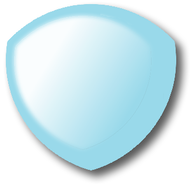
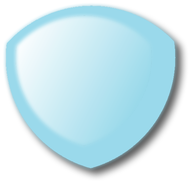
lots of changes
redid logos with transparent background, added logos for services, fixed
the error message in the contact form. many many more changes coming.

diff --git a/index.html b/index.html
@@ -64,7 +64,7 @@
                     <span class="icon-bar"></span>
                     <span class="icon-bar"></span>
                 </button>
-                 <a class="navbar-brand page-scroll" href="#page-top">v 0.5</a>
+                 <!-- <a class="navbar-brand page-scroll" href="#page-top">v 0.5.1</a> -->
             </div>
 
             <!-- Collect the nav links, forms, and other content for toggling -->
@@ -73,14 +73,18 @@
                     <li class="hidden">
                         <a href="#page-top"></a>
                     </li>
-                    <li>
-                        <a class="page-scroll" href="#services">Services</a>
-                    </li>
 <!--                     <li>
                         <a class="page-scroll" href="#portfolio">Portfolio</a>
                     </li> -->
                     <li>
+                        <a class="page-scroll" href="#page-top">Back To Top</a>
+                    </li>
+
+                    <li>
                         <a class="page-scroll" href="#about">About</a>
+                    </li>
+                    <li>
+                        <a class="page-scroll" href="#services">Services</a>
                     </li>
 <!--                     <li>
                         <a class="page-scroll" href="#team">Team</a>
@@ -100,49 +104,12 @@
         <div class="container">
             <div class="intro-text">
                 <div class="intro-lead-in">Not Done</div>
-                <div class="intro-heading">Getting Close</div>
+                <div class="intro-heading">But Getting Close</div>
                 <!-- <a href="#services" class="page-scroll btn btn-xl">Clickety</a> -->
             </div>
         </div>
     </header>
 
-    <!-- Services Section -->
-    <section id="services">
-        <div class="container">
-            <div class="row">
-                <div class="col-lg-12 text-center">
-                    <h2 class="section-heading">Services</h2>
-                    <h3 class="section-subheading text-muted">Lorem ipsum dolor sit amet consectetur.</h3>
-                </div>
-            </div>
-            <div class="row text-center">
-                <div class="col-md-4">
-                    <span class="fa-stack fa-4x">
-                        <i class="fa fa-circle fa-stack-2x text-primary"></i>
-                        <i class="fa fa-shopping-cart fa-stack-1x fa-inverse"></i>
-                    </span>
-                    <h4 class="service-heading">E-Commerce</h4>
-                    <p class="text-muted">Lorem ipsum dolor sit amet, consectetur adipisicing elit. Minima maxime quam architecto quo inventore harum ex magni, dicta impedit.</p>
-                </div>
-                <div class="col-md-4">
-                    <span class="fa-stack fa-4x">
-                        <i class="fa fa-circle fa-stack-2x text-primary"></i>
-                        <i class="fa fa-laptop fa-stack-1x fa-inverse"></i>
-                    </span>
-                    <h4 class="service-heading">Responsive Design</h4>
-                    <p class="text-muted">Lorem ipsum dolor sit amet, consectetur adipisicing elit. Minima maxime quam architecto quo inventore harum ex magni, dicta impedit.</p>
-                </div>
-                <div class="col-md-4">
-                    <span class="fa-stack fa-4x">
-                        <i class="fa fa-circle fa-stack-2x text-primary"></i>
-                        <i class="fa fa-lock fa-stack-1x fa-inverse"></i>
-                    </span>
-                    <h4 class="service-heading">Web Security</h4>
-                    <p class="text-muted">Lorem ipsum dolor sit amet, consectetur adipisicing elit. Minima maxime quam architecto quo inventore harum ex magni, dicta impedit.</p>
-                </div>
-            </div>
-        </div>
-    </section>
 
     <!-- Portfolio Grid Section -->
 <!--     <section id="portfolio" class="bg-light-gray">
@@ -248,7 +215,9 @@
             <div class="row">
                 <div class="col-lg-12 text-center">
                     <h2 class="section-heading">About</h2>
-                    <h3 class="section-subheading text-muted">Lorem ipsum dolor sit amet consectetur.</h3>
+                    <!-- <h3 class="section-subheading text-muted">Lorem ipsum dolor sit amet consectetur.</h3> -->
+                    <h4 class="subheading">DevOps is more than just delivering software. It's another vector of quality.</h4>
+                    <!-- <h4 class="subheading">Our Humble Beginnings</h4> -->
                 </div>
             </div>
             <div class="row">
@@ -322,6 +291,69 @@
             </div>
         </div>
     </section>
+
+    <!-- Services Section -->
+    <section id="services">
+        <div class="container">
+            <div class="row">
+                <div class="col-lg-12 text-center">
+                    <h2 class="section-heading">Services</h2>
+                    <!-- <h3 class="section-subheading text-muted">Lorem ipsum dolor sit amet consectetur.</h3> -->
+                </div>
+                <div class="col-lg-12 text-center">
+                    <!-- <h3 class="section-subheading text-muted">Lorem ipsum dolor sit amet consectetur.</h3> -->
+                    <h4 class="subheading">Test. Automate. Deliver. Educate. Improve. Repeat.</h4>
+                </div>
+            </div>
+            <div class="row text-center">
+                <div class="col-md-4">
+                    <span class="fa-stack fa-4x">
+                        <img class="img-services" src="img/logos/logo manual testing.png" >
+                    </span>
+                    <h4 class="service-heading">Manual Testing</h4>
+                    <p class="text-muted">At any level you require</p>
+                </div>
+                <div class="col-md-4">
+                    <span class="fa-stack fa-4x">
+                        <img class="img-services" src="img/logos/logo gears.png" >
+                    </span>
+                    <h4 class="service-heading">Automation</h4>
+                    <p class="text-muted">Let your hardware do the heavy lifting for you</p>
+                </div>
+                <div class="col-md-4">
+                    <span class="fa-stack fa-4x">
+                        <img class="img-services" src="img/logos/logo frameworks.png" >
+                    </span>
+                    <h4 class="service-heading">Test Frameworks</h4>
+                    <p class="text-muted">Custom frameworks to speed up automated test construction</p>
+                </div>
+            </div>
+            <div class="row text-center">
+                <div class="col-md-4">
+                    <span class="fa-stack fa-4x">
+                    <img class="img-circle img-responsive" src="img/about/2.jpg" alt="">
+                    </span>
+                    <h4 class="service-heading">Team Leadership</h4>
+                    <p class="text-muted">Knowledge sharing and guidance for your team and company</p>
+                </div>
+                <div class="col-md-4">
+                    <span class="fa-stack fa-4x">
+                        <img class="img-services" src="img/logos/logo continuous.png" >
+                    </span>
+                    <h4 class="service-heading">Continuous Integration</h4>
+                    <p class="text-muted">Start your automation upon checkin or build</p>
+                </div>
+                <div class="col-md-4">
+                    <span class="fa-stack fa-4x">
+                        <img class="img-services" src="img/logos/logo continuous delivery.png" >
+                    </span>
+                    <h4 class="service-heading">Continuous Delivery</h4>
+                    <p class="text-muted">Software pushed to production with a minimum of fuss</p>
+                </div>
+            </div>
+        </div>
+    </section>
+
 
     <!-- Team Section -->
 <!--     <section id="team" class="bg-light-gray">
@@ -420,8 +452,8 @@
         <div class="container">
             <div class="row">
                 <div class="col-lg-12 text-center">
-                    <h2 class="section-heading">Contact Us</h2>
-                    <h3 class="section-subheading text-muted">Lorem ipsum dolor sit amet consectetur.</h3>
+                    <h2 class="section-heading">Let's Talk</h2>
+                    <h3 class="section-subheading text-muted">If you aren't able to produce quality software as quickly as you want, that's a problem. Let's work together and solve it.</h3>
                 </div>
             </div>
             <div class="row">
@@ -464,26 +496,26 @@
         <div class="container">
             <div class="row">
                 <div class="col-md-4">
-                    <span class="copyright">Copyright &copy; Your Website 2014</span>
+                    <span class="copyright">Copyright &copy; Arch DevOps, LLC 2015. Powered by Bootstrap. Confluence logo by John Fritzius</span>
                 </div>
                 <div class="col-md-4">
                     <ul class="list-inline social-buttons">
-                        <li><a href="#"><i class="fa fa-twitter"></i></a>
-                        </li>
-                        <li><a href="#"><i class="fa fa-facebook"></i></a>
-                        </li>
-                        <li><a href="#"><i class="fa fa-linkedin"></i></a>
+                        <!-- <li><a href="#"><i class="fa fa-twitter"></i></a> -->
+                        <!-- </li> -->
+                        <!-- <li><a href="#"><i class="fa fa-facebook"></i></a> -->
+                        <!-- </li> -->
+                        <li><a href="https://www.linkedin.com/company/arch-devops-llc"><i class="fa fa-linkedin"></i></a>
                         </li>
                     </ul>
                 </div>
-                <div class="col-md-4">
+<!--                 <div class="col-md-4">
                     <ul class="list-inline quicklinks">
                         <li><a href="#">Privacy Policy</a>
                         </li>
                         <li><a href="#">Terms of Use</a>
                         </li>
                     </ul>
-                </div>
+                </div> -->
             </div>
         </div>
     </footer>

diff --git a/js/contact_me.js b/js/contact_me.js
@@ -45,7 +45,8 @@ $(function() {
                     $('#success').html("<div class='alert alert-danger'>");
                     $('#success > .alert-danger').html("<button type='button' class='close' data-dismiss='alert' aria-hidden='true'>&times;")
                         .append("</button>");
-                    $('#success > .alert-danger').append("<strong>Sorry " + firstName + ", it seems that my mail server is not responding. Please try again later!");
+                    // $('#success > .alert-danger').append("<strong>Sorry " + firstName + ", it seems that my mail server is not responding. Please try again later!");
+                    $('#success > .alert-danger').append("<strong>Sorry " + firstName + ", it seems that my mail server is not responding. Please send an email to contact@archdevops.com. Apologies for the invonvenience :(");
                     $('#success > .alert-danger').append('</div>');
                     //clear all fields
                     $('#contactForm').trigger("reset");

diff --git a/css/agency.css b/css/agency.css
@@ -56,6 +56,12 @@ h6 {
     font-weight: 700;
 }
 
+.img-services {
+    max-width: 100%;
+    min-width: 100px;
+    height: auto;
+}
+
 .img-centered {
     margin: 0 auto;
 }
@@ -726,7 +732,7 @@ footer span.copyright {
     text-transform: uppercase;
     text-transform: none;
     font-family: Montserrat,"Helvetica Neue",Helvetica,Arial,sans-serif;
-    line-height: 40px;
+    line-height: 15px;
 }
 
 footer ul.quicklinks {
